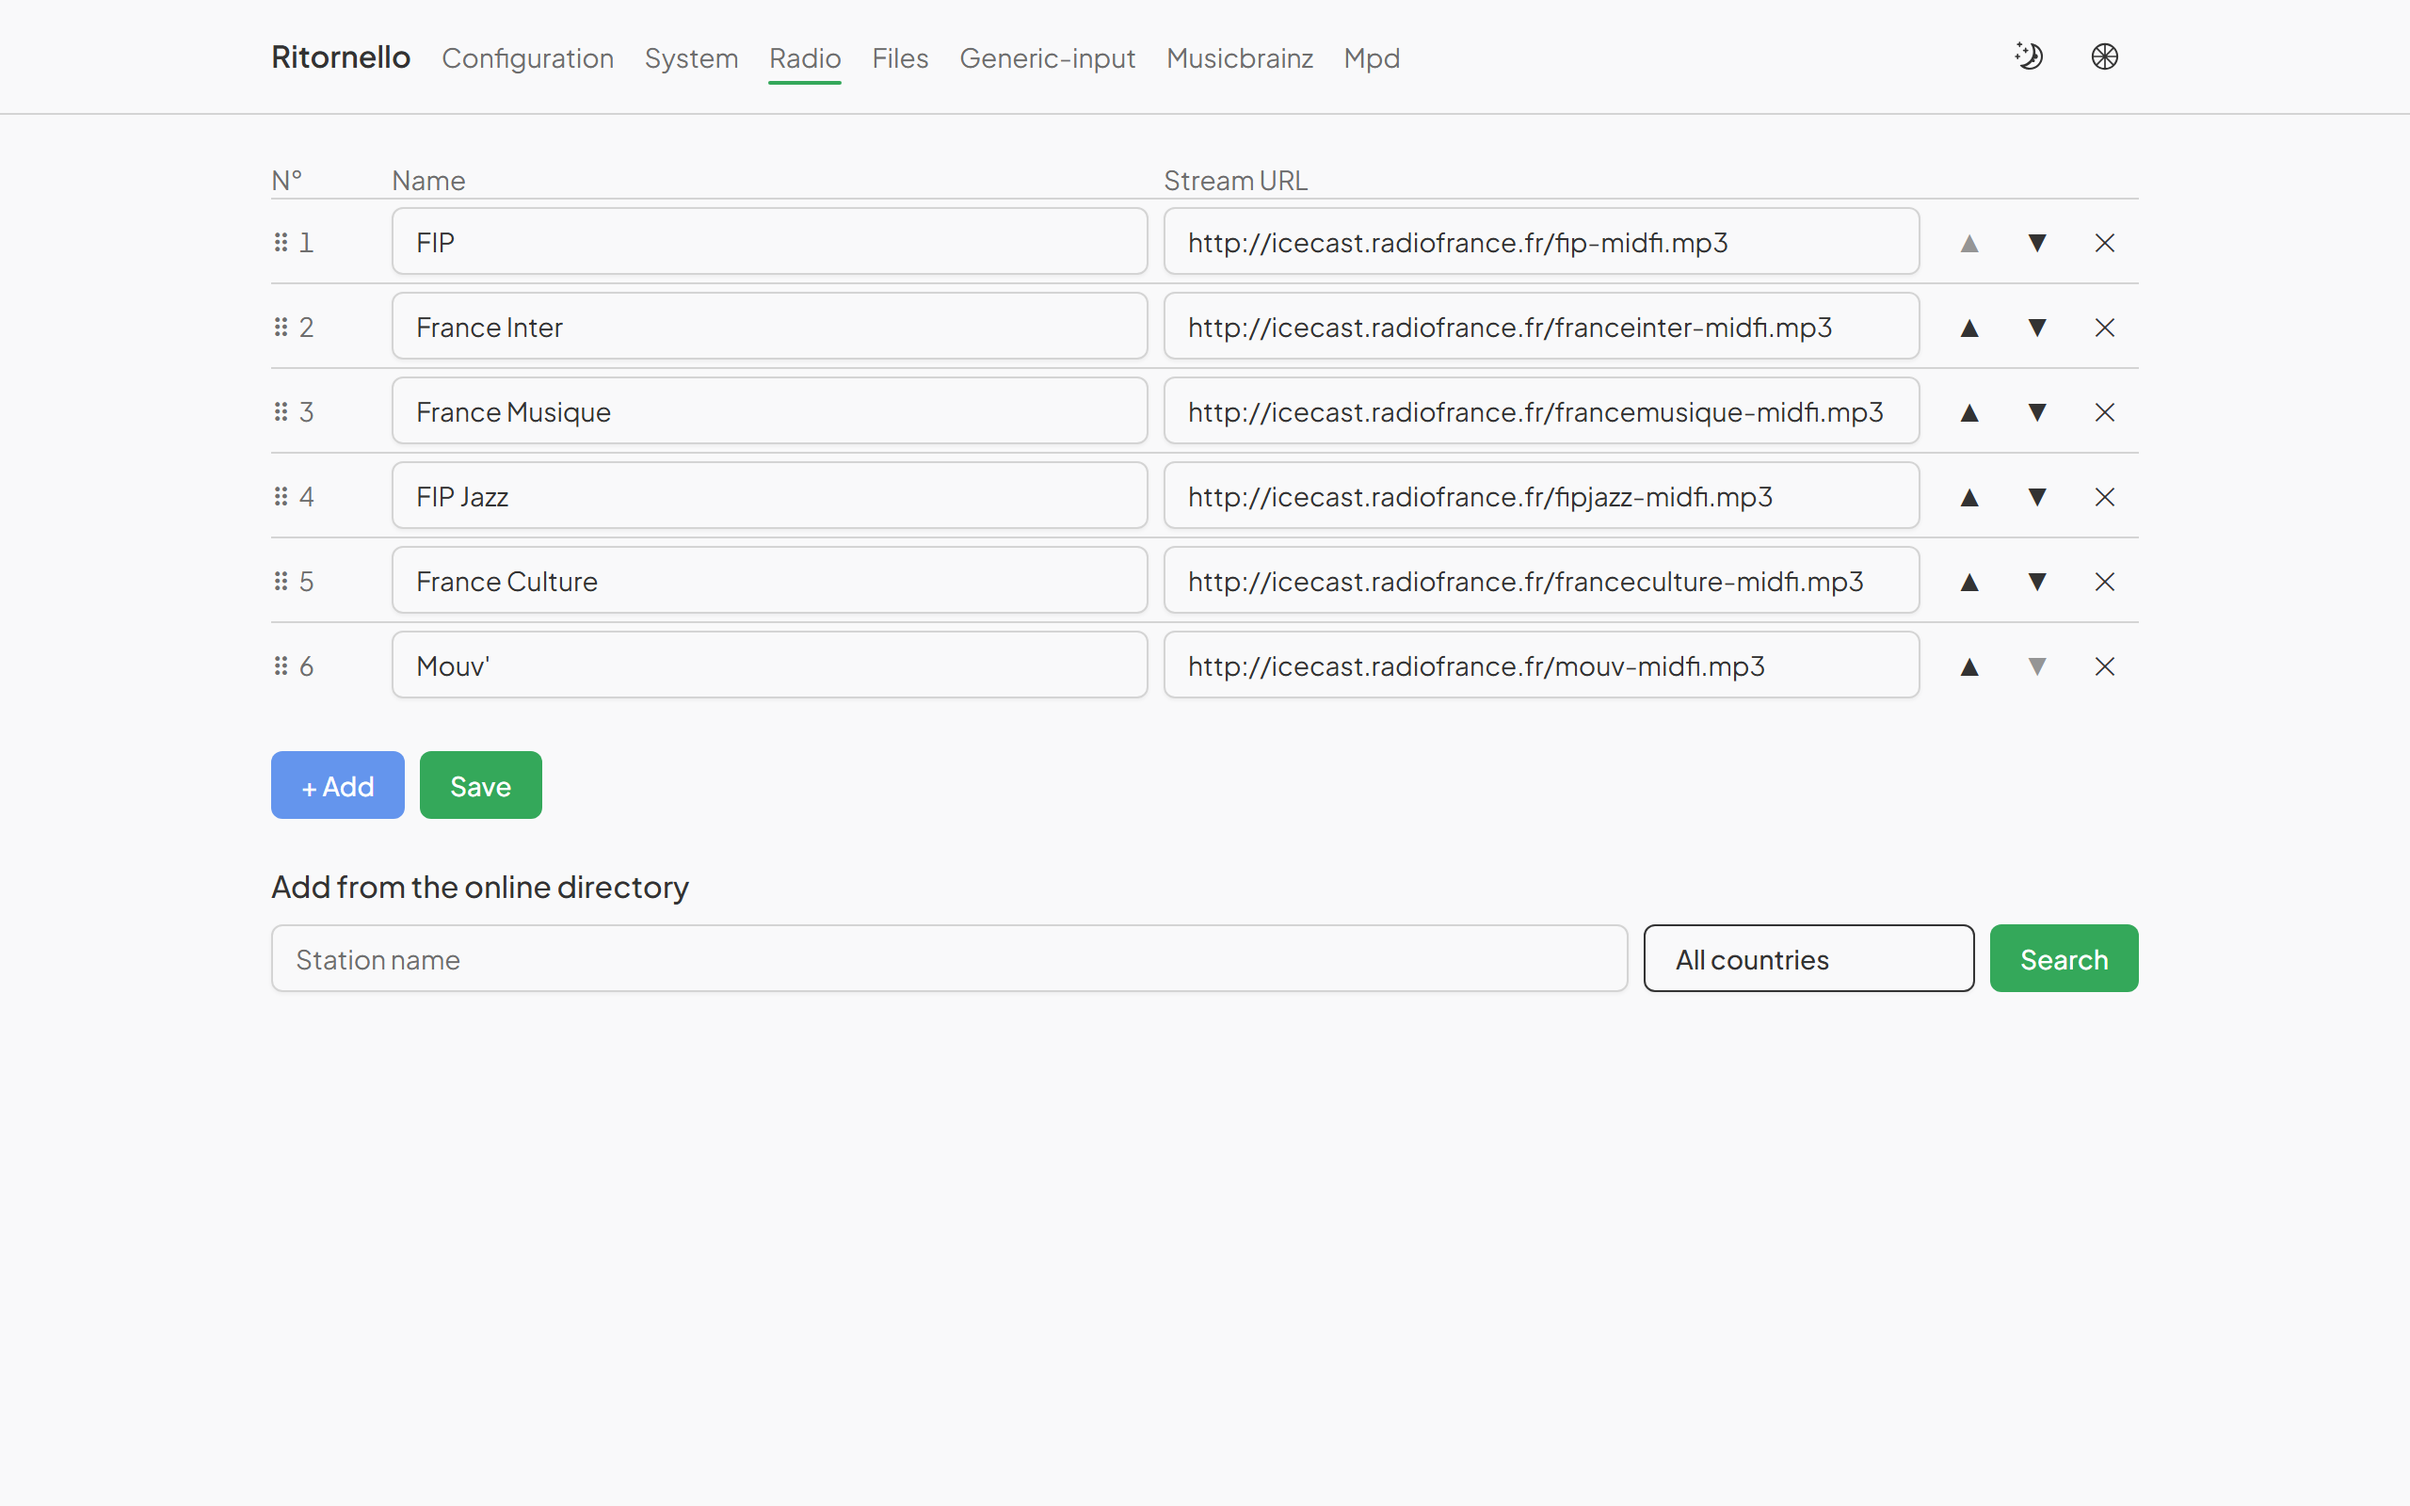
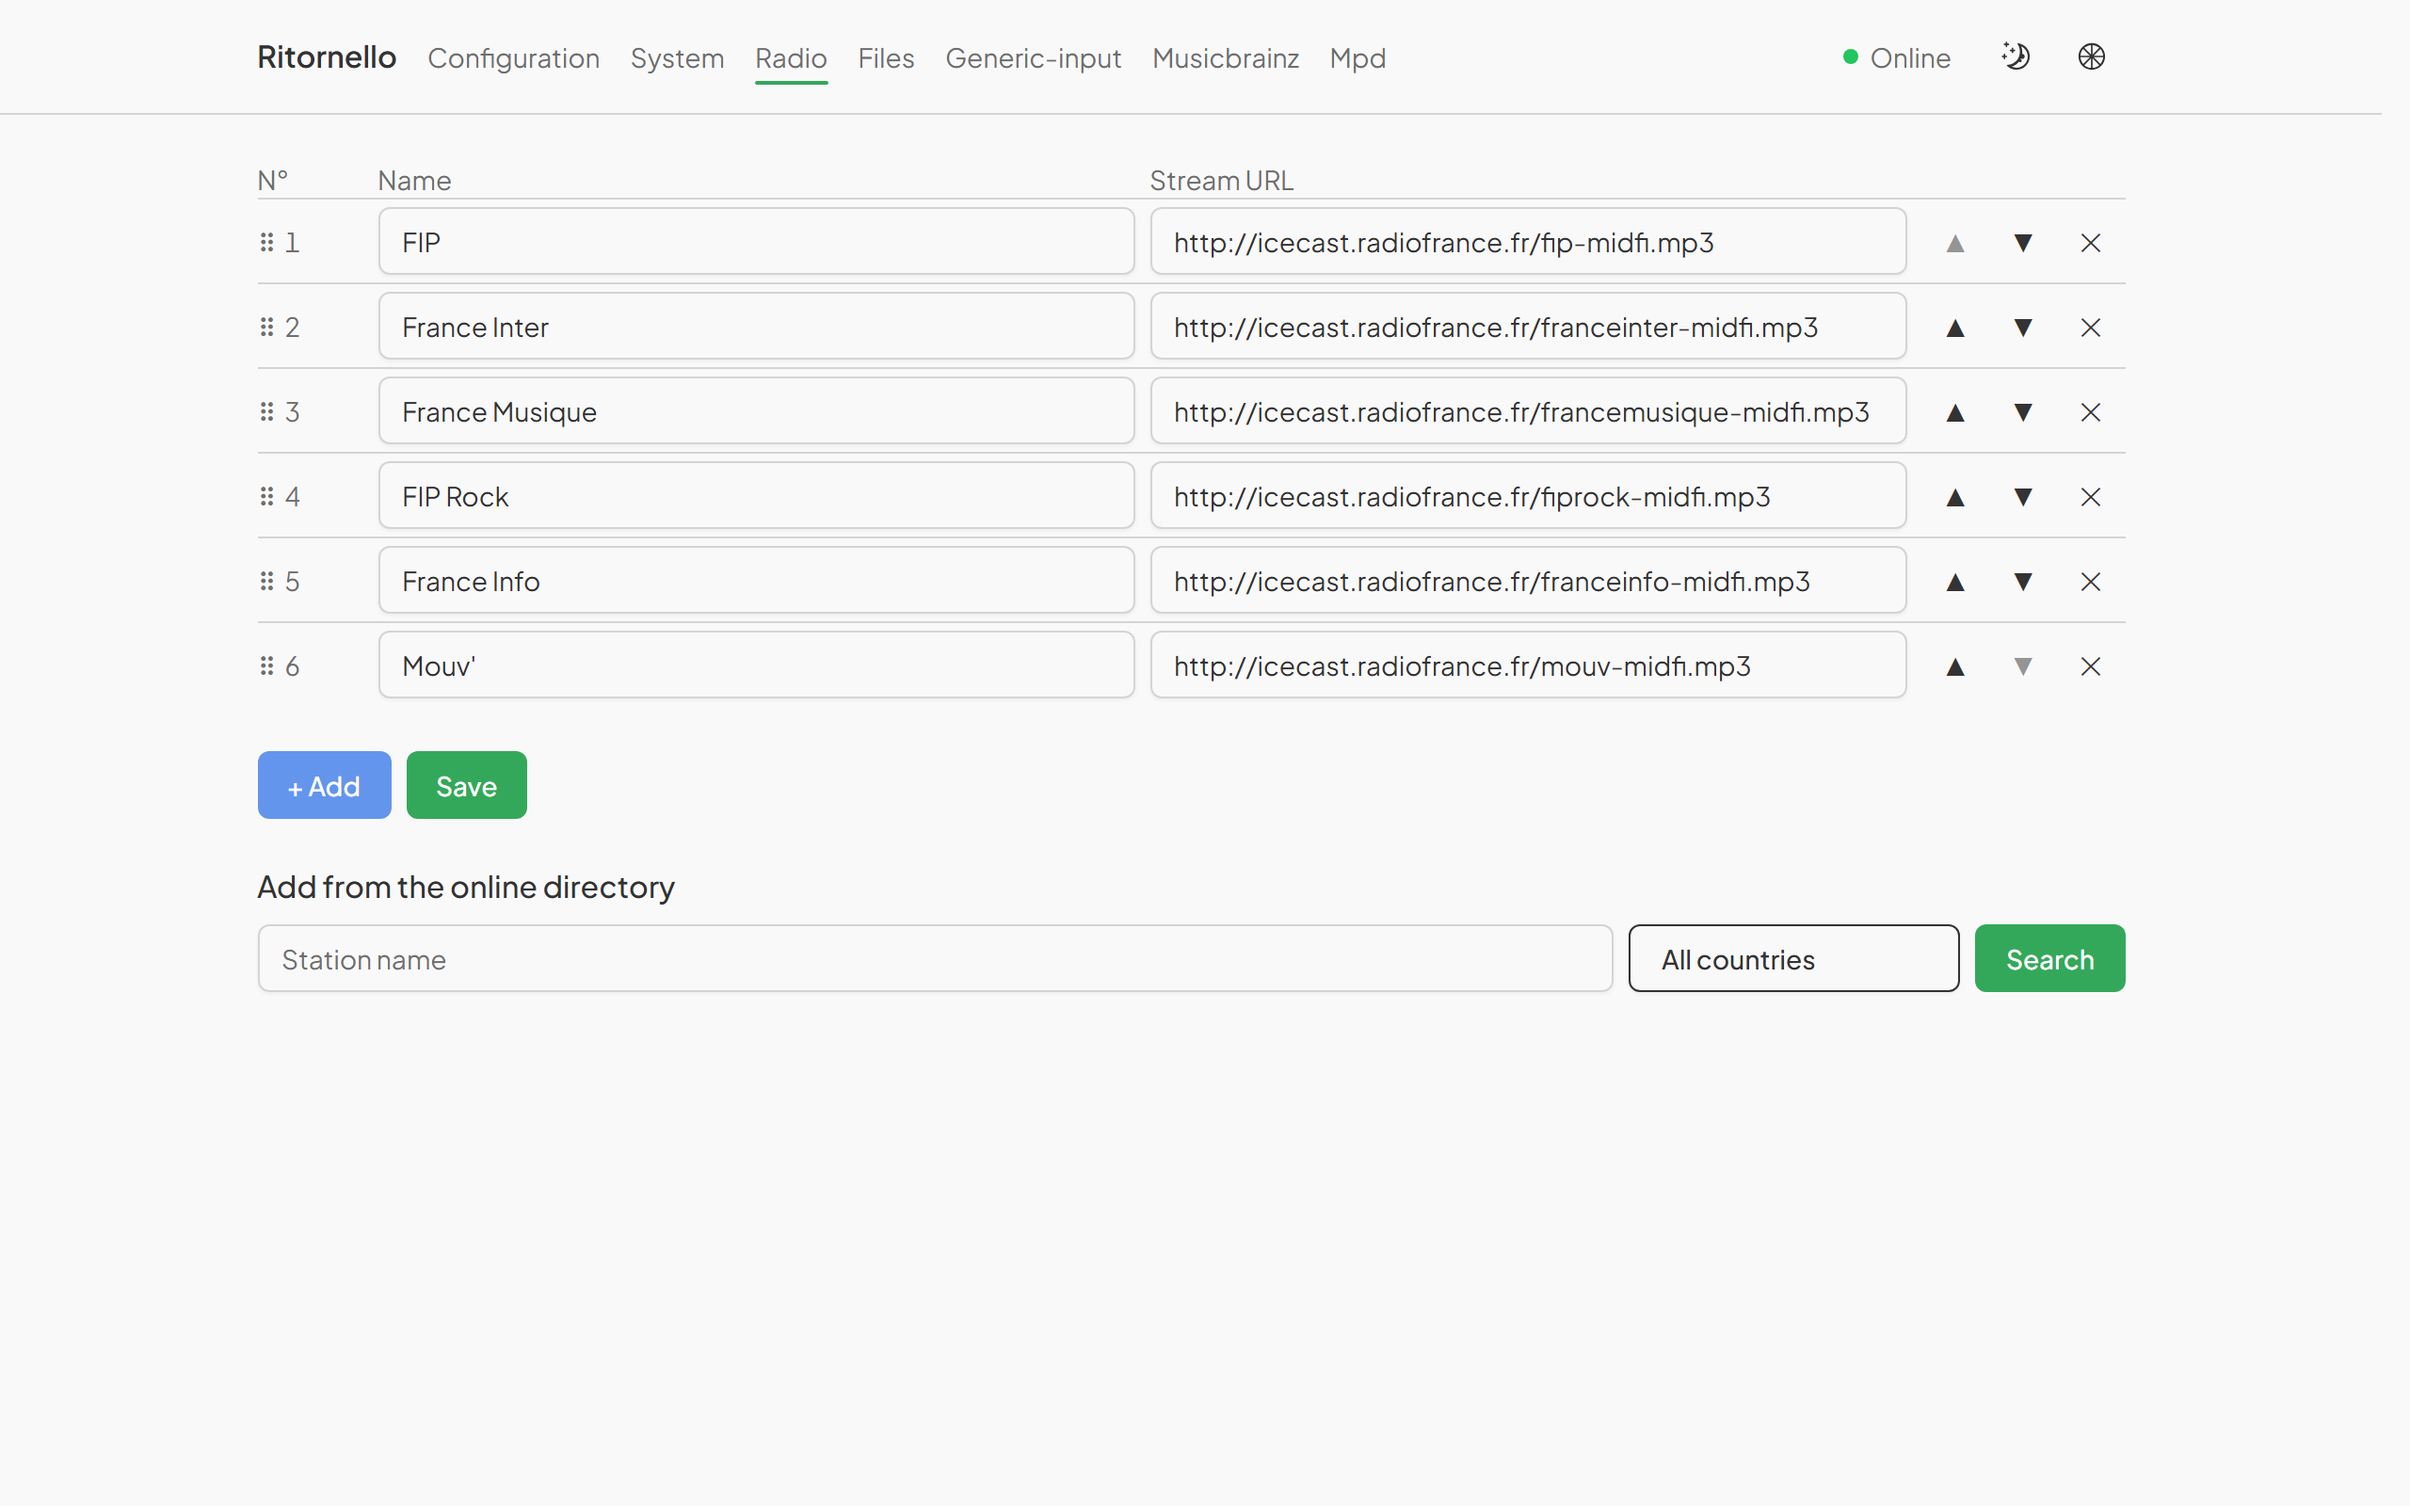
docs: retake the showcase screenshots, and add the one the update work earned
The pictures dated from 2026-08-28, before the update card, the plugins
table, the two play-mode toggles and the connection indicator. All five are
retaken against a real core, and a sixth is added.

**`config-update.png`** is the new one, and it is the one the README was
missing most: "Self-update and plugin management" has been a headline
feature for a day and nothing showed it. It carries the check card, the
automatic policy with its prerelease switch and help text, and the plugins
table with each plugin's version, state, admin link, enable toggle, order
arrows and Uninstall button.

Two changes to the script rather than to a one-off copy of it, so the next
person gets them:

- **A shot can be named on the command line** (`node scripts/captures.mjs
  system`). The home shots depend on what the station is playing at that
  second, so re-running all six to redo one of them can lose a good one,
  and it does not come back.
- **`system` waits ninety seconds, not twenty-five.** Measured: at 25 s the
  history still reads "0 min window" over an empty frame — a graph the
  README's own caption promises and the picture did not show. At 90 s it
  reads "1 min window" and has a curve.

`scrollTo` is new too: the config page is long and its update section sits
below the fold, so a plain screenshot of it would have shown the audio
picker instead of the subject. Done with `scrollIntoViewIfNeeded` and not a
URL hash, which the router does not honour on a fresh load.
[…]

diff --git a/docs/development.md b/docs/development.md
@@ -328,6 +328,22 @@ documented at the top of `serve.mjs`.
   above, run `npm run build --workspaces` then `cargo build --workspace`
   first — the core the script screenshots is the one just built.
 
+  The script takes an optional list of shot names — `node
+  scripts/captures.mjs system config-update` — and does all of them when
+  given none. Worth knowing, because the two home shots depend on what the
+  station happens to be playing at that moment: re-running everything to
+  redo one of them can lose a good one, and there is no getting it back.
+
+  The showcase pictures are richer than what `e2e/serve.mjs` alone gives
+  (one station, no metadata plugin, hence a grey note and "Presets: 1").
+  They were taken with a throwaway copy of that file — never committed,
+  since the journeys need its minimal configuration — declaring
+  `radiofrance-metas`, `musicbrainz` and `mpd` (on port 16600, so a real
+  6600 is never touched) and six Radio France stations as presets. Radio
+  France is what makes the shot speak: FIP broadcasts no ICY, so title,
+  artist, year and cover all come from that plugin, and the provenance
+  `(?)` then has something to show.
+
 ## Build guardrails
 
 `web/app/scripts/check-dist.mjs` checks after every npm build that the

diff --git a/README.md b/README.md
@@ -84,8 +84,11 @@ and 5) and `x86_64`, so a plain Linux PC runs it just as well.
   <img src="docs/captures/radio-admin.png" width="49%" alt="The radio plugin's administration page: reorderable stations and directory search">
 </p>
 <p align="center">
+  <img src="docs/captures/config-update.png" width="49%" alt="The configuration page's update section: what has been checked, the automatic policy with its prerelease switch, and the plugins table with each plugin's version and state">
+  <img src="docs/captures/system.png" width="49%" alt="The system page: CPU, memory, a history graph, load average, storage — and shutdown/reboot further down">
+</p>
+<p align="center">
   <img src="docs/captures/home-phone.png" width="30%" alt="The home page on a phone: the remote control fits the screen">
-  <img src="docs/captures/system.png" width="66%" alt="The system page: CPU, memory, a history graph, load average, storage — and shutdown/reboot further down">
 </p>
 
 ## Architecture
